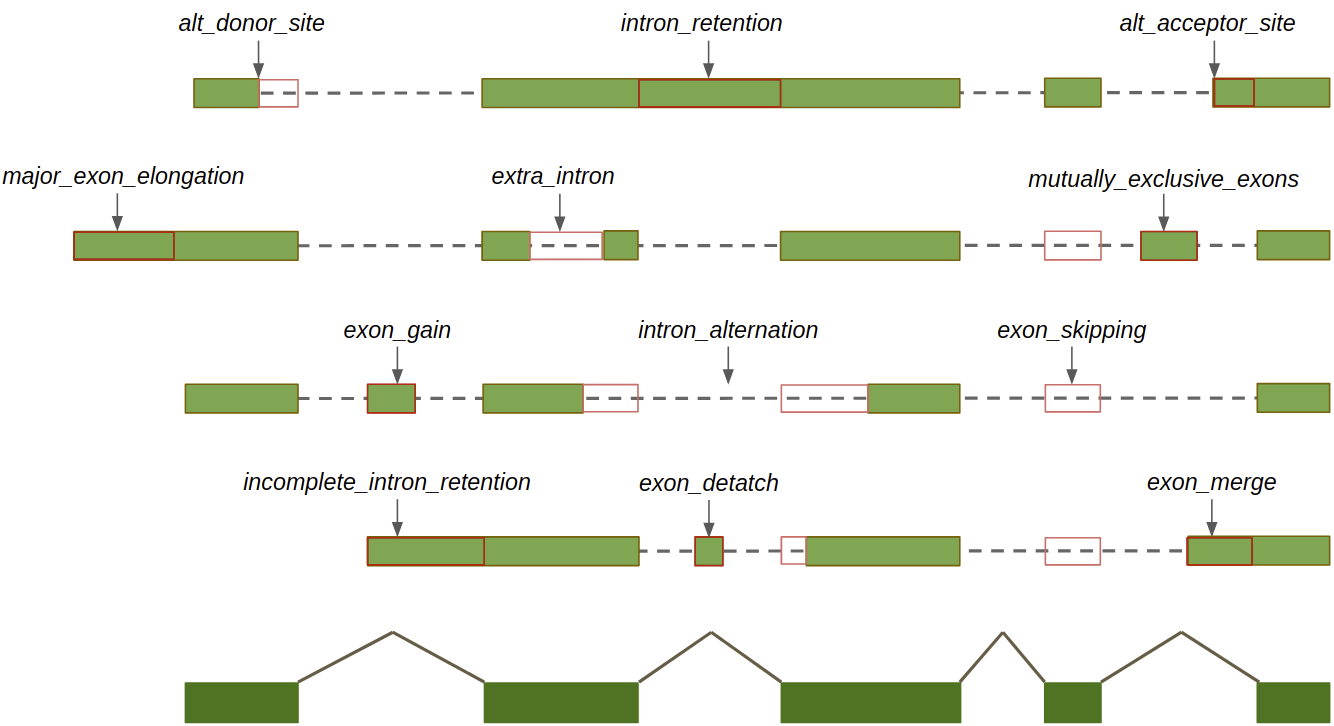
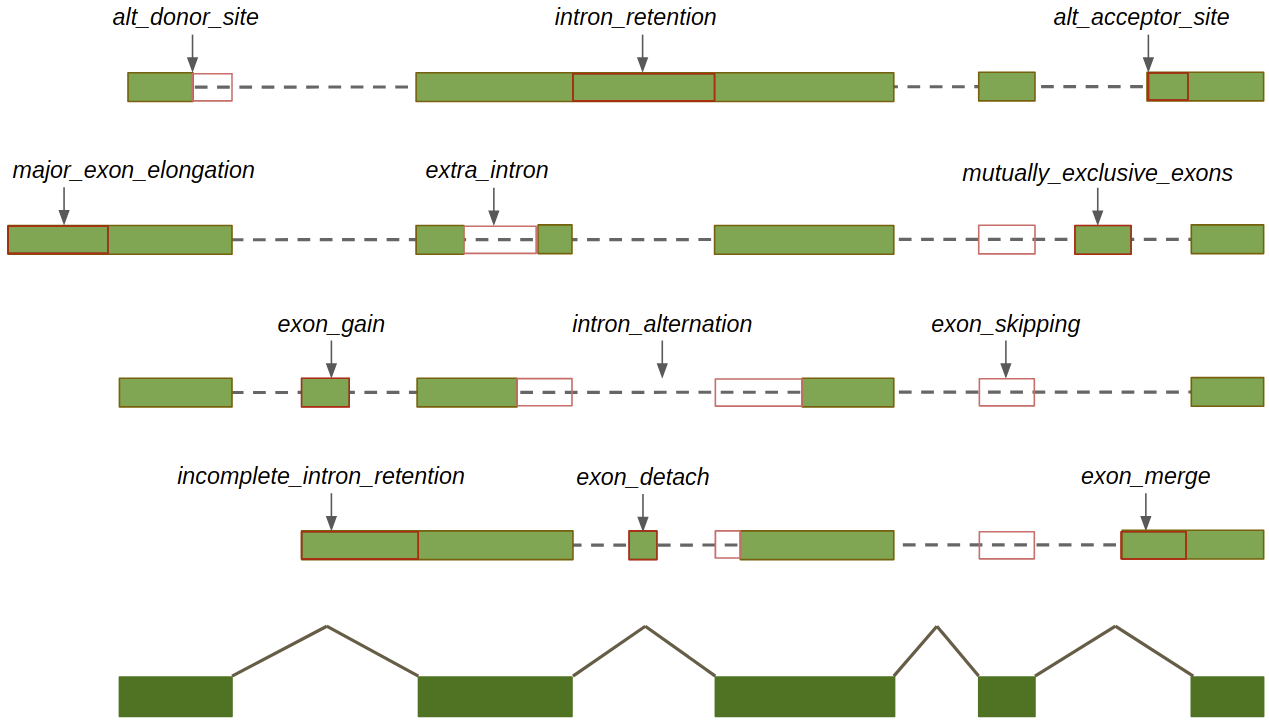
detach spelling

diff --git a/src/transcript_model_constructor.py b/src/transcript_model_constructor.py
@@ -143,14 +143,14 @@ class TranscriptModelConstructor:
                             MatchEventSubtype.extra_intron_flanking_right,
                             MatchEventSubtype.mutually_exclusive_exons_novel,
                             MatchEventSubtype.exon_gain_novel, MatchEventSubtype.exon_skipping_novel,
-                            MatchEventSubtype.exon_detatch_novel, MatchEventSubtype.exon_merge_novel,
+                            MatchEventSubtype.exon_detach_novel, MatchEventSubtype.exon_merge_novel,
                             MatchEventSubtype.terminal_exon_shift_novel,
                             MatchEventSubtype.alternative_structure_novel, MatchEventSubtype.intron_alternation_novel,
                             MatchEventSubtype.unspliced_intron_retention, MatchEventSubtype.intron_retention,
                             MatchEventSubtype.alt_left_site_known, MatchEventSubtype.alt_right_site_known,
                             MatchEventSubtype.extra_intron_known, MatchEventSubtype.intron_migration,
                             MatchEventSubtype.mutually_exclusive_exons_known, MatchEventSubtype.exon_skipping_known,
-                            MatchEventSubtype.exon_detatch_known, MatchEventSubtype.exon_merge_known,
+                            MatchEventSubtype.exon_detach_known, MatchEventSubtype.exon_merge_known,
                             MatchEventSubtype.terminal_exon_shift_known,
                             MatchEventSubtype.exon_gain_known, MatchEventSubtype.alternative_structure_known,
                             MatchEventSubtype.intron_alternation_known,
@@ -586,14 +586,14 @@ class TranscriptModelConstructor:
             current_exon_start = self.add_intron(novel_exons, current_exon_start, novel_intron)
         elif event_tuple.event_type in {MatchEventSubtype.mutually_exclusive_exons_novel,
                                         MatchEventSubtype.exon_gain_novel,
-                                        MatchEventSubtype.exon_detatch_novel,
+                                        MatchEventSubtype.exon_detach_novel,
                                         MatchEventSubtype.alternative_structure_novel}:
             # simply insert several reads introns
             for read_pos in range(event_tuple.read_region[0], event_tuple.read_region[1] + 1):
                 current_exon_start = self.add_intron(novel_exons, current_exon_start, read_introns[read_pos])
         elif event_tuple.event_type in {MatchEventSubtype.mutually_exclusive_exons_known,
                                         MatchEventSubtype.exon_gain_known,
-                                        MatchEventSubtype.exon_detatch_known,
+                                        MatchEventSubtype.exon_detach_known,
                                         MatchEventSubtype.alternative_structure_known}:
             # insert several reads introns my fitting them onto reference introns
             for read_pos in range(event_tuple.read_region[0], event_tuple.read_region[1] + 1):

diff --git a/src/isoform_assignment.py b/src/isoform_assignment.py
@@ -126,8 +126,8 @@ class MatchEventSubtype(Enum):
     exon_gain_known = 145
     exon_gain_novel = 146
     # similar to mutually exclusive exons but when reference exon is attached to another exon
-    exon_detatch_known = 147
-    exon_detatch_novel = 148
+    exon_detach_known = 147
+    exon_detach_novel = 148
     # terminal exon shift
     terminal_exon_shift_known = 151
     terminal_exon_shift_novel = 152
@@ -246,8 +246,8 @@ event_subtype_cost = {
     # exon gain
     MatchEventSubtype.exon_gain_known:1,
     MatchEventSubtype.exon_gain_novel:1,
-    MatchEventSubtype.exon_detatch_known:0.5,
-    MatchEventSubtype.exon_detatch_novel:0.5,
+    MatchEventSubtype.exon_detach_known:0.5,
+    MatchEventSubtype.exon_detach_novel:0.5,
     MatchEventSubtype.terminal_exon_shift_known:0.5,
     MatchEventSubtype.terminal_exon_shift_novel:0.5,
     # other
@@ -285,7 +285,7 @@ nnic_event_types = {
     MatchEventSubtype.extra_intron_novel, MatchEventSubtype.extra_intron_flanking_left,
     MatchEventSubtype.extra_intron_flanking_right, MatchEventSubtype.mutually_exclusive_exons_novel,
     MatchEventSubtype.exon_gain_novel, MatchEventSubtype.exon_skipping_novel,
-    MatchEventSubtype.exon_detatch_novel, MatchEventSubtype.exon_merge_novel,
+    MatchEventSubtype.exon_detach_novel, MatchEventSubtype.exon_merge_novel,
     MatchEventSubtype.terminal_exon_shift_novel,
     MatchEventSubtype.alternative_structure_novel, MatchEventSubtype.intron_alternation_novel,
     MatchEventSubtype.alternative_polya_site_left, MatchEventSubtype.alternative_polya_site_right,
@@ -297,7 +297,7 @@ nic_event_types = {
     MatchEventSubtype.alt_left_site_known, MatchEventSubtype.alt_right_site_known,
     MatchEventSubtype.extra_intron_known, MatchEventSubtype.intron_migration,
     MatchEventSubtype.mutually_exclusive_exons_known, MatchEventSubtype.exon_skipping_known,
-    MatchEventSubtype.exon_detatch_known, MatchEventSubtype.exon_merge_known,
+    MatchEventSubtype.exon_detach_known, MatchEventSubtype.exon_merge_known,
     MatchEventSubtype.terminal_exon_shift_known,
     MatchEventSubtype.exon_gain_known, MatchEventSubtype.alternative_structure_known,
     MatchEventSubtype.intron_alternation_known, MatchEventSubtype.major_exon_elongation_left,

diff --git a/tests/test_long_read_assigner.py b/tests/test_long_read_assigner.py
@@ -282,9 +282,9 @@ class TestCompareJunctions:
                               ([(50, 60), (80, 100)], (0, 150), [(50, 100)], (9, 149), 2,
                                MatchEventSubtype.exon_gain_known),
                               ([(10, 30), (55, 100)], (0, 150), [(10, 75)], (9, 149), 2,
-                               MatchEventSubtype.exon_detatch_novel),
+                               MatchEventSubtype.exon_detach_novel),
                               ([(50, 60), (80, 110)], (0, 150), [(50, 90)], (9, 149), 2,
-                               MatchEventSubtype.exon_detatch_known),
+                               MatchEventSubtype.exon_detach_known),
                               ([(50, 60), (80, 110)], (20, 150), [(20, 60), (80, 110)], (0, 150), 2,
                                MatchEventSubtype.terminal_exon_shift_known),
                               ([(45, 60), (80, 110)], (22, 150), [(10, 60), (80, 110)], (0, 150), 2,

diff --git a/src/long_read_assigner.py b/src/long_read_assigner.py
@@ -668,8 +668,8 @@ class LongReadAssigner:
                                         MatchEventSubtype.exon_gain_known,
                                         MatchEventSubtype.mutually_exclusive_exons_novel,
                                         MatchEventSubtype.mutually_exclusive_exons_known,
-                                        MatchEventSubtype.exon_detatch_known,
-                                        MatchEventSubtype.exon_detatch_novel}:
+                                        MatchEventSubtype.exon_detach_known,
+                                        MatchEventSubtype.exon_detach_novel}:
                         event_count -= 1
                     elif e.event_type in {MatchEventSubtype.intron_retention,
                                           MatchEventSubtype.unspliced_intron_retention,

diff --git a/src/junction_comparator.py b/src/junction_comparator.py
@@ -290,9 +290,9 @@ class JunctionComparator:
                 read_cregion[1] > read_cregion[0] and isoform_cregion[1] == isoform_cregion[0]:
             # exon detach
             if read_introns_known:
-                event = MatchEventSubtype.exon_detatch_known
+                event = MatchEventSubtype.exon_detach_known
             else:
-                event = MatchEventSubtype.exon_detatch_novel
+                event = MatchEventSubtype.exon_detach_novel
 
         if event is None:
             # none of above, complex alternative structure

diff --git a/README.md b/README.md
@@ -41,7 +41,7 @@
 *   To run IsoQuant on aligned reads (make sure your BAM is sorted and indexed) use the following command:
 
         python IsoQuant.py --genedb /PATH/TO/gene_annotation.gtf 
-        --fastq /PATH/TO/sample1.sorted.bam /PATH/TO/sample2.sorted.bam 
+        --bam /PATH/TO/sample1.sorted.bam /PATH/TO/sample2.sorted.bam 
         --data_type (pacbio_css|pacbio_raw|nanopore) -o OUTPUT_FOLDER
 
 <a name="sec1"></a>
@@ -412,7 +412,7 @@ Tab-separated values, the columns are:
         - `exon_skipping` - read skips exon(s) comparing to the isoform;
         - `exon_merge` - read skips exon(s) comparing to the isoform, but a sequence of a similar length is attached to a neighboring exon;
         - `exon_gain` - read contains additional exon(s) comparing to the isoform;
-        - `exon_detatch` - read contains additional exon(s) comparing to the isoform, but a neighboring exon looses a sequnce of a similar length;
+        - `exon_detach` - read contains additional exon(s) comparing to the isoform, but a neighboring exon looses a sequnce of a similar length;
         - `alternative_structure` - reads has different intron chain that does not fall into any of categories above;
     - alternative transcription start / end (reported when CAGE data / poly-A tails are present):
         - `alternative_polya_site` - read has alternative polyadenylation site;
